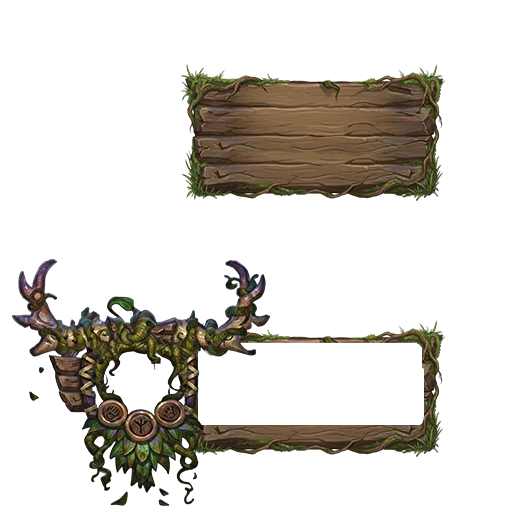
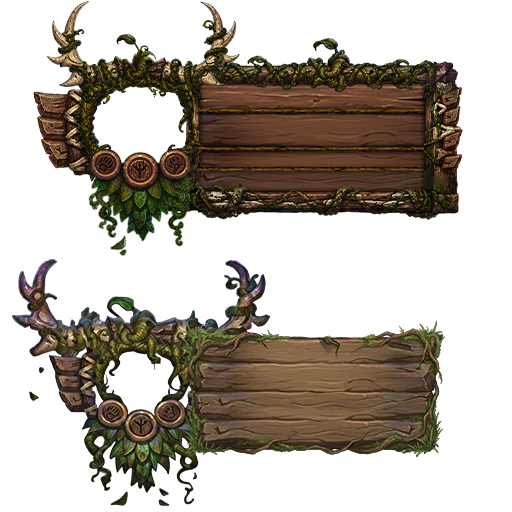
style: Update version to 1.3.12 and add new druid frames

Changed region(s): [[0.0625, 0.0, 0.9062, 0.5], [0.3438, 0.625, 0.875, 0.9062], [0.4688, 0.875, 0.5, 0.9062]]

diff --git a/README.md b/README.md
@@ -1,7 +1,7 @@
 # EPF Custom Skins
 
 [![License: CC BY-NC-SA 4.0](https://img.shields.io/badge/License-CC%20BY--NC--SA%204.0-blue.svg)](https://creativecommons.org/licenses/by-nc-sa/4.0/)
-[![Version](https://img.shields.io/badge/Version-1.3.11-informational)](ElitePlayerFrame_Enhanced_CustomSkins.toc)
+[![Version](https://img.shields.io/badge/Version-1.3.12-informational)](ElitePlayerFrame_Enhanced_CustomSkins.toc)
 [![WoW](https://img.shields.io/badge/WoW-12.1.0%20(MN)-orange)](https://worldofwarcraft.blizzard.com/)
 [![Lua](https://img.shields.io/badge/Lua-5.x-blue)](https://www.lua.org/)
 

diff --git a/CHANGELOG.md b/CHANGELOG.md
@@ -4,6 +4,12 @@ All notable changes to **EPF Custom Skins** are documented in this file.
 
 The format is based on [Keep a Changelog](https://keepachangelog.com/en/1.1.0/), and this project adheres to [Semantic Versioning](https://semver.org/spec/v2.0.0.html).
 
+## [1.3.12] - 2026-08-20
+
+### Added
+
+- Added druid frames
+
 ## [1.3.11] - 2026-08-14
 
 ### Added
